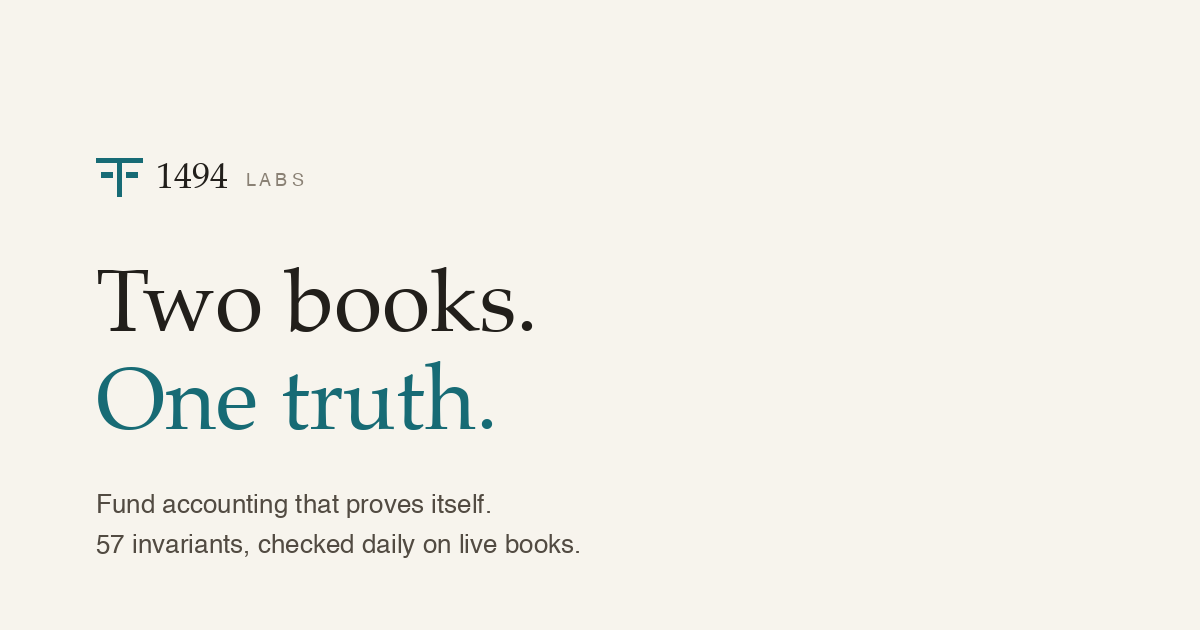
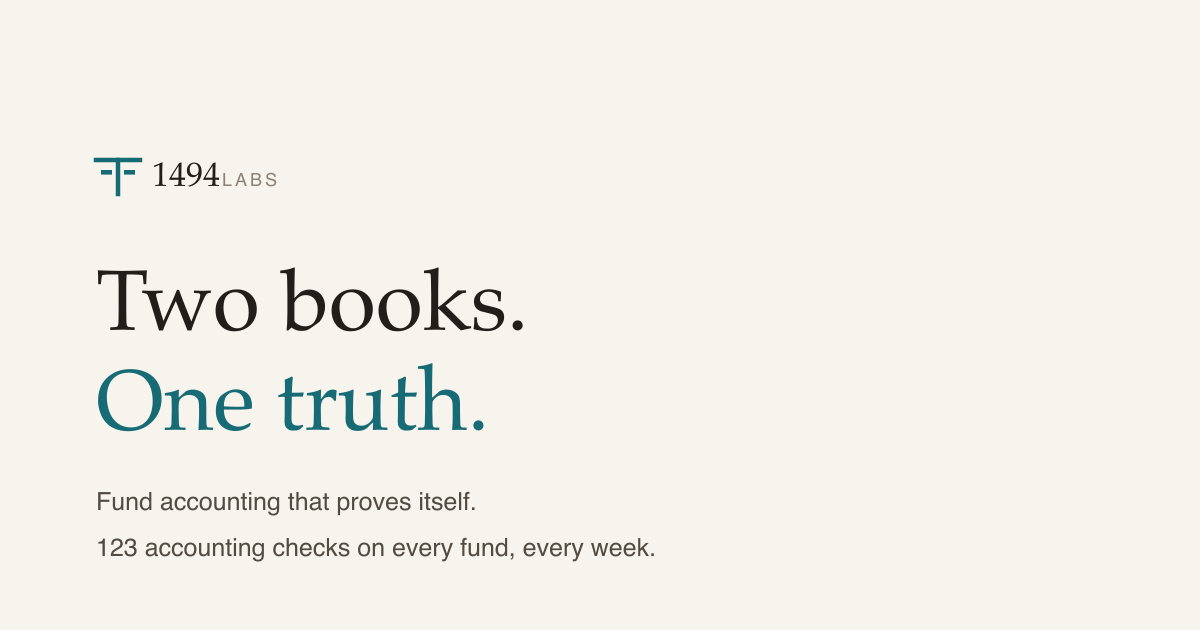
Security, sub-processors and privacy: AI is opt-in per workspace; analytics, backups and log retention stated accurately; accounting checks; refreshed share image

diff --git a/security/index.html b/security/index.html
@@ -48,7 +48,7 @@
 
   <h1>What is in place, and what is not</h1>
   <p class="standfirst">Everything on this page can be evidenced. The second half, about what we do not have, is here for the same reason as the first.</p>
-  <p class="byline">Last reviewed 2026-09-16</p>
+  <p class="byline">Last reviewed 2026-10-03</p>
 
   <article class="measure">
 
@@ -83,7 +83,7 @@
         <tr><td>Database encryption at rest</td><td>Yes</td></tr>
         <tr><td>Database reachable from the internet</td><td>No</td></tr>
         <tr><td>Accidental-deletion protection</td><td>Yes</td></tr>
-        <tr><td>Automated backups</td><td>7 days, plus a snapshot taken before every deploy</td></tr>
+        <tr><td>Automated backups</td><td>7 days, a daily locked copy kept 35 days, and a snapshot taken before every deploy</td></tr>
         <tr><td>Secrets</td><td>Held in AWS Parameter Store and read at boot. The machine running the application can read them and cannot change them</td></tr>
         <tr><td>Region</td><td>United States</td></tr>
       </tbody>
@@ -94,16 +94,18 @@
     <ul class="keypoints">
       <li><span class="tick">&#10003;</span><span><b>Every commit is scanned for secrets</b>, and the deploy refuses a revision that has not passed that scan. Not a warning, a refusal.</span></li>
       <li><span class="tick">&#10003;</span><span><b>Dependencies are audited weekly</b> and automatically. The first run found 48 known vulnerabilities; they were remediated the same day.</span></li>
-      <li><span class="tick">&#10003;</span><span><b>Every deploy re-proves the arithmetic.</b> An invariant sweep runs across every live fund afterwards, and it records its own verdict whether anyone is watching or not.</span></li>
+      <li><span class="tick">&#10003;</span><span><b>Every deploy re-proves the arithmetic.</b> An accounting-check sweep runs after every deploy and weekly, across every live fund whenever the accounting engine changed, and it records its own verdict whether anyone is watching or not.</span></li>
     </ul>
 
     <h2>No third-party code in the product</h2>
     <p>
-      The application loads no analytics, no trackers, no advertising and no
-      external fonts. The one exception is a cookieless counter of page
-      requests, which stores nothing on your device and cannot see into a
-      workspace: it records that a page was requested, never what the page
-      showed. Everything that touches data is named on the
+      The application loads no trackers, no advertising and no external
+      fonts. It sends narrow product analytics to PostHog through our own
+      edge: which screen was used, error kinds and one-way hashes, never a
+      figure or a name from your workspace. Your network address is
+      stripped, and nothing is stored on your device. A cookieless counter
+      records that a page was requested, never what the page showed. AI
+      features are off until a workspace administrator turns them on. Everything that touches data is named on the
       <a href="/subprocessors/">sub-processors</a> page and in the
       <a href="/privacy/">privacy notice</a>.
     </p>

diff --git a/privacy/index.html b/privacy/index.html
@@ -48,7 +48,7 @@
 
   <h1>What we collect, and what we deliberately do not</h1>
   <p class="standfirst">There is no cookie banner on this site because there is nothing to consent to. This page is the inventory.</p>
-  <p class="byline">Last reviewed 2026-09-25</p>
+  <p class="byline">Last reviewed 2026-10-03</p>
 
   <article>
 
@@ -116,8 +116,8 @@ that follows you to another site. It
 
   <h2>What reaches us at all</h2>
   <p>Your email and what you write, if you write to us. Your feedback text,
-  if you submit it. Standard, short-lived server logs - network address,
-  browser identification - kept for security and operations. Data you or
+  if you submit it. Server access logs - network address,
+  browser identification - kept for 400 days for security and audit. Data you or
   your firm place in the application belongs to your firm and is processed
   only to run the service.</p>
 
@@ -127,10 +127,9 @@ that follows you to another site. It
   hosts this website. Formspree handles the enquiry form on the home page,
 Cloudflare Web Analytics counts page requests, and PostHog receives the
 application's product analytics described above. Every one of them, and what
-reaches it, is listed on the <a href="/subprocessors/">sub-processors</a> page. If a customer enables the
-AI-assisted features,
-  documents they choose to process are sent to Anthropic for that purpose
-  and no other. We do not sell or share personal information with anyone,
+reaches it, is listed on the <a href="/subprocessors/">sub-processors</a> page. If a workspace administrator turns on the
+AI-assisted features, the documents, import samples and support requests
+  sent through them go to Anthropic for that purpose and no other. We do not sell or share personal information with anyone,
   for anything.</p>
 
   <h2>Your rights</h2>

diff --git a/subprocessors/index.html b/subprocessors/index.html
@@ -4,7 +4,7 @@
 <meta charset="utf-8">
 <meta name="viewport" content="width=device-width, initial-scale=1">
 <title>Sub-processors &middot; 1494 Labs</title>
-<meta name="description" content="Every third party that touches 1494 Labs data, what it does, where it runs, and what reaches it. Six in total, and two of them only if a customer switches something on.">
+<meta name="description" content="Every third party that touches 1494 Labs data, what it does, where it runs, and what reaches it. Seven in total, and one of them only if a customer switches something on.">
 <link rel="canonical" href="https://1494labs.com/subprocessors/">
 <link rel="stylesheet" href="/assets/notes.7838f975.css">
 <link rel="icon" href="/assets/favicon.svg" type="image/svg+xml">
@@ -48,7 +48,7 @@
 
   <h1>Everyone who touches the data</h1>
   <p class="standfirst">Seven third parties, and one of them only if a customer switches something on. This page names all of them, what reaches each one, and where it runs.</p>
-  <p class="byline">Last reviewed 2026-09-25</p>
+  <p class="byline">Last reviewed 2026-10-03</p>
 
   <article class="measure">
 
@@ -90,8 +90,8 @@
       <tbody>
         <tr>
           <td><strong>Anthropic</strong></td>
-          <td>The AI-assisted features, which are off unless a customer enables them</td>
-          <td>Only the documents a customer chooses to process, and nothing else from the workspace</td>
+          <td>The AI-assisted features, which are off unless a workspace administrator turns them on</td>
+          <td>Only what a customer sends through those features: documents and import samples they choose to process, figures they ask about, and support requests. Nothing else from the workspace</td>
           <td>United States</td>
         </tr>
       </tbody>
